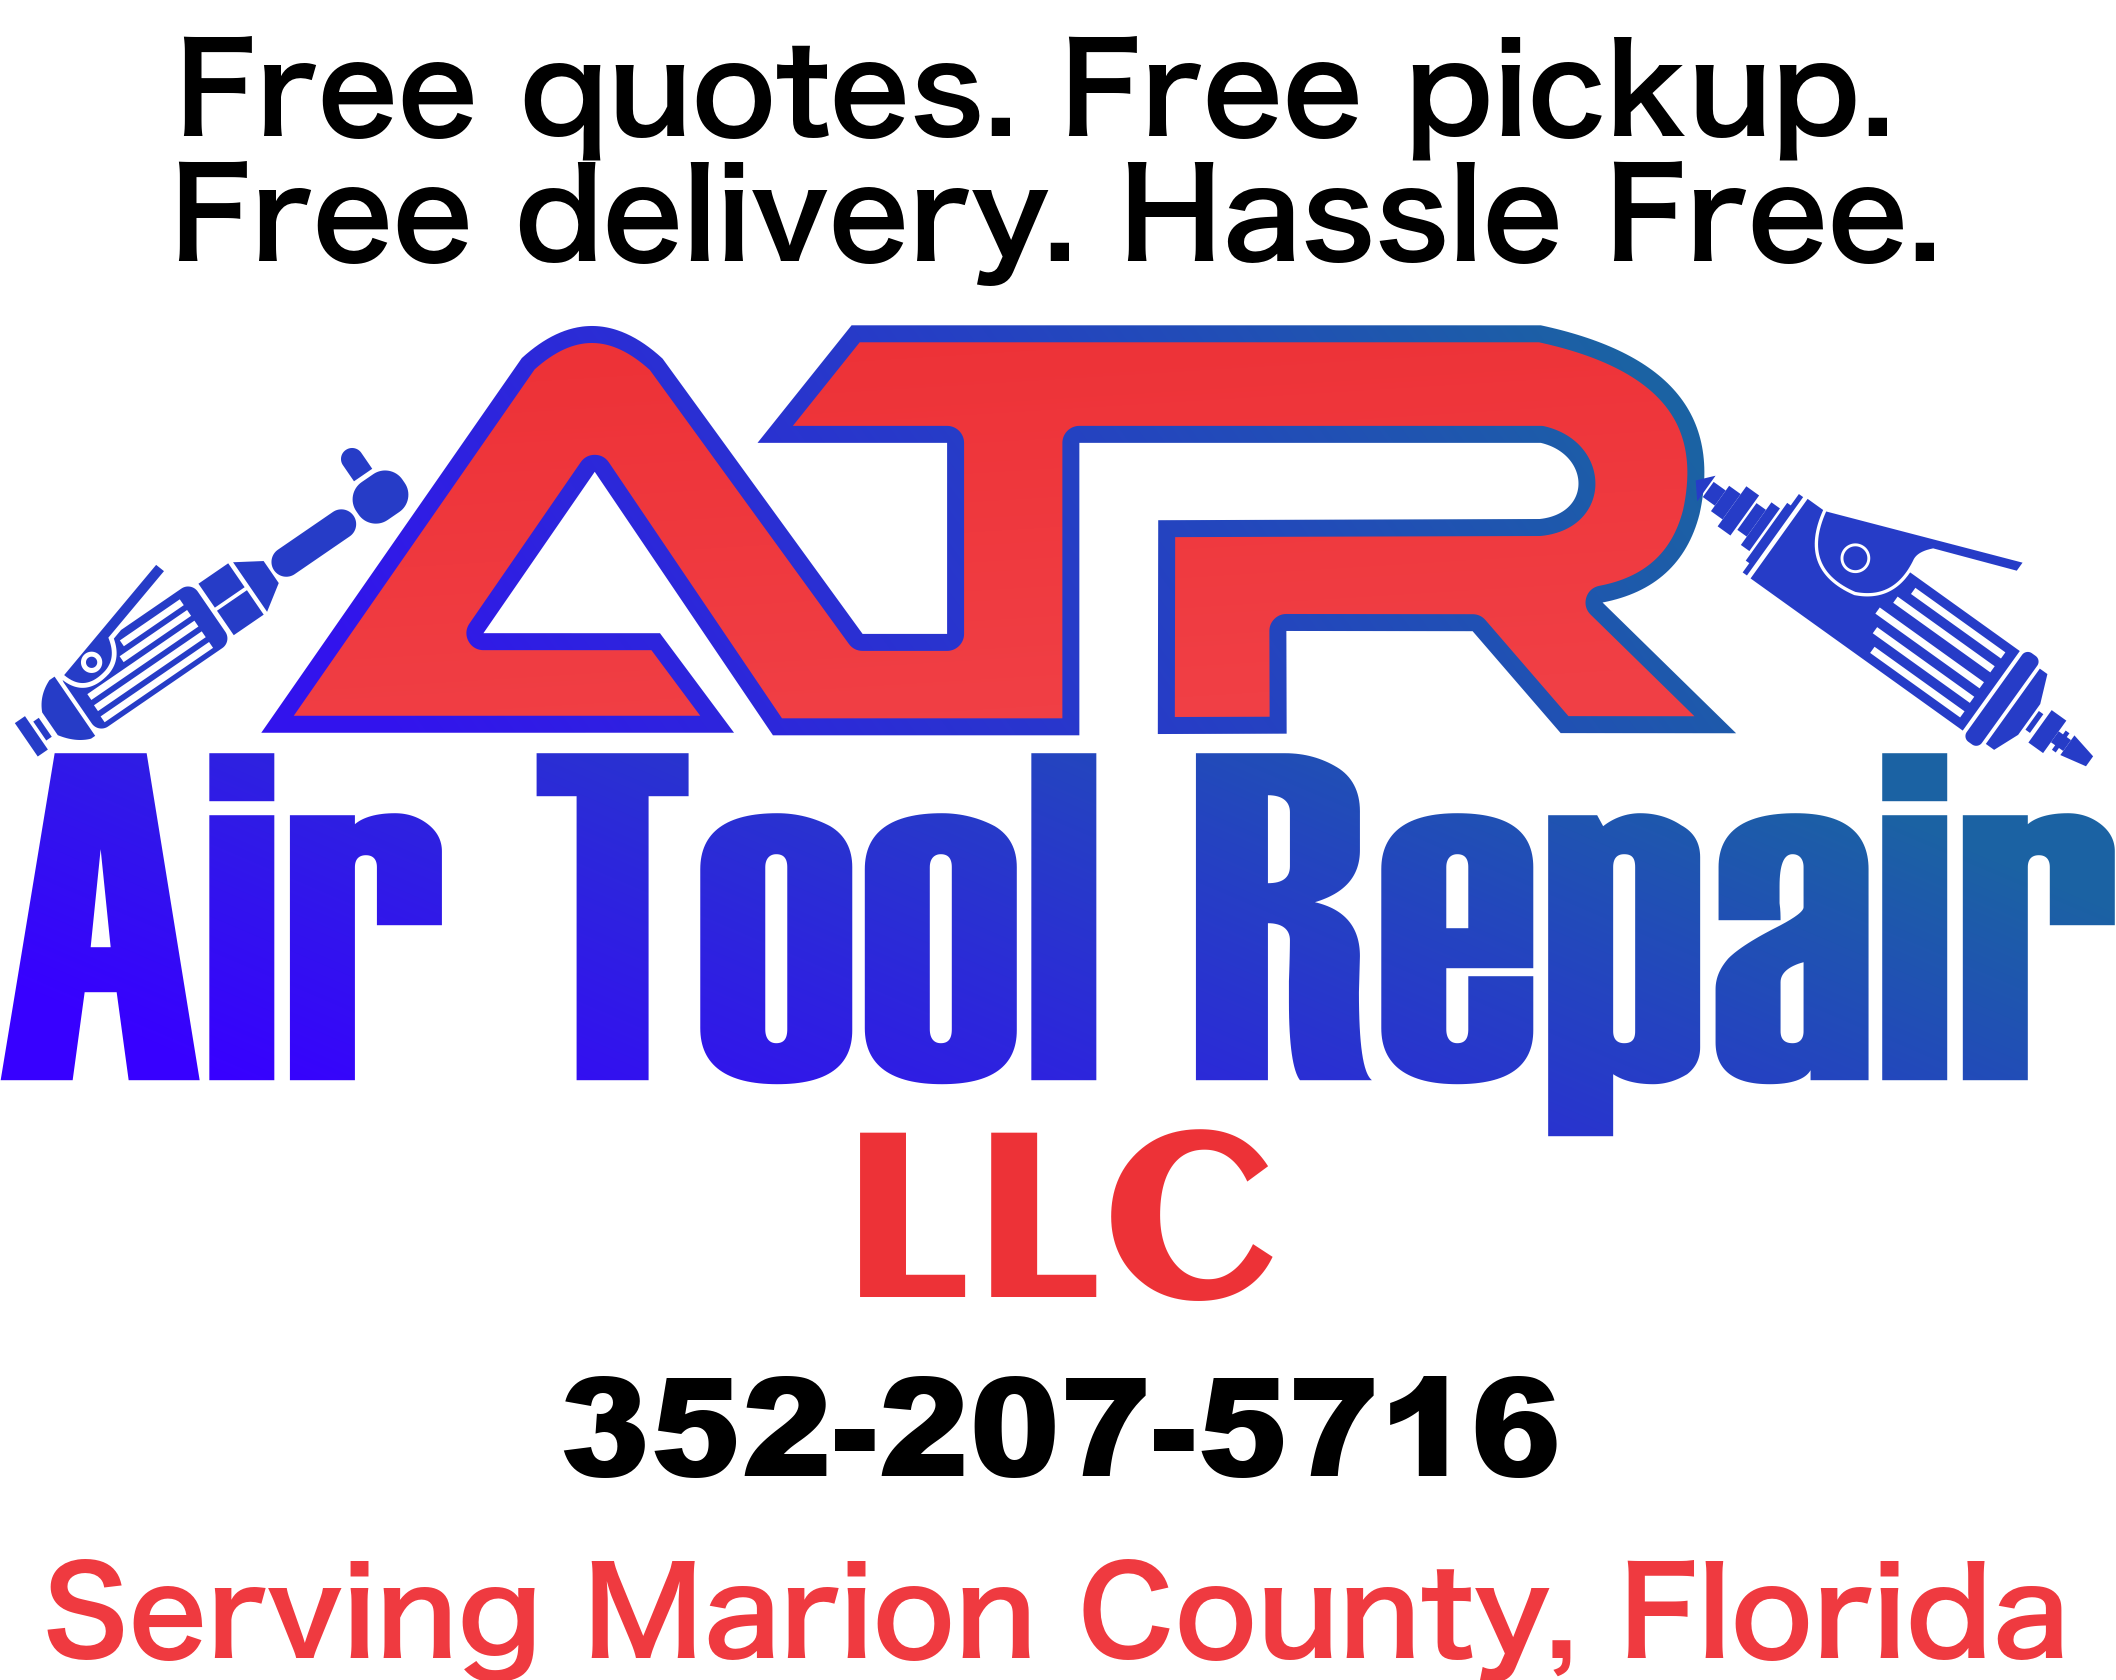
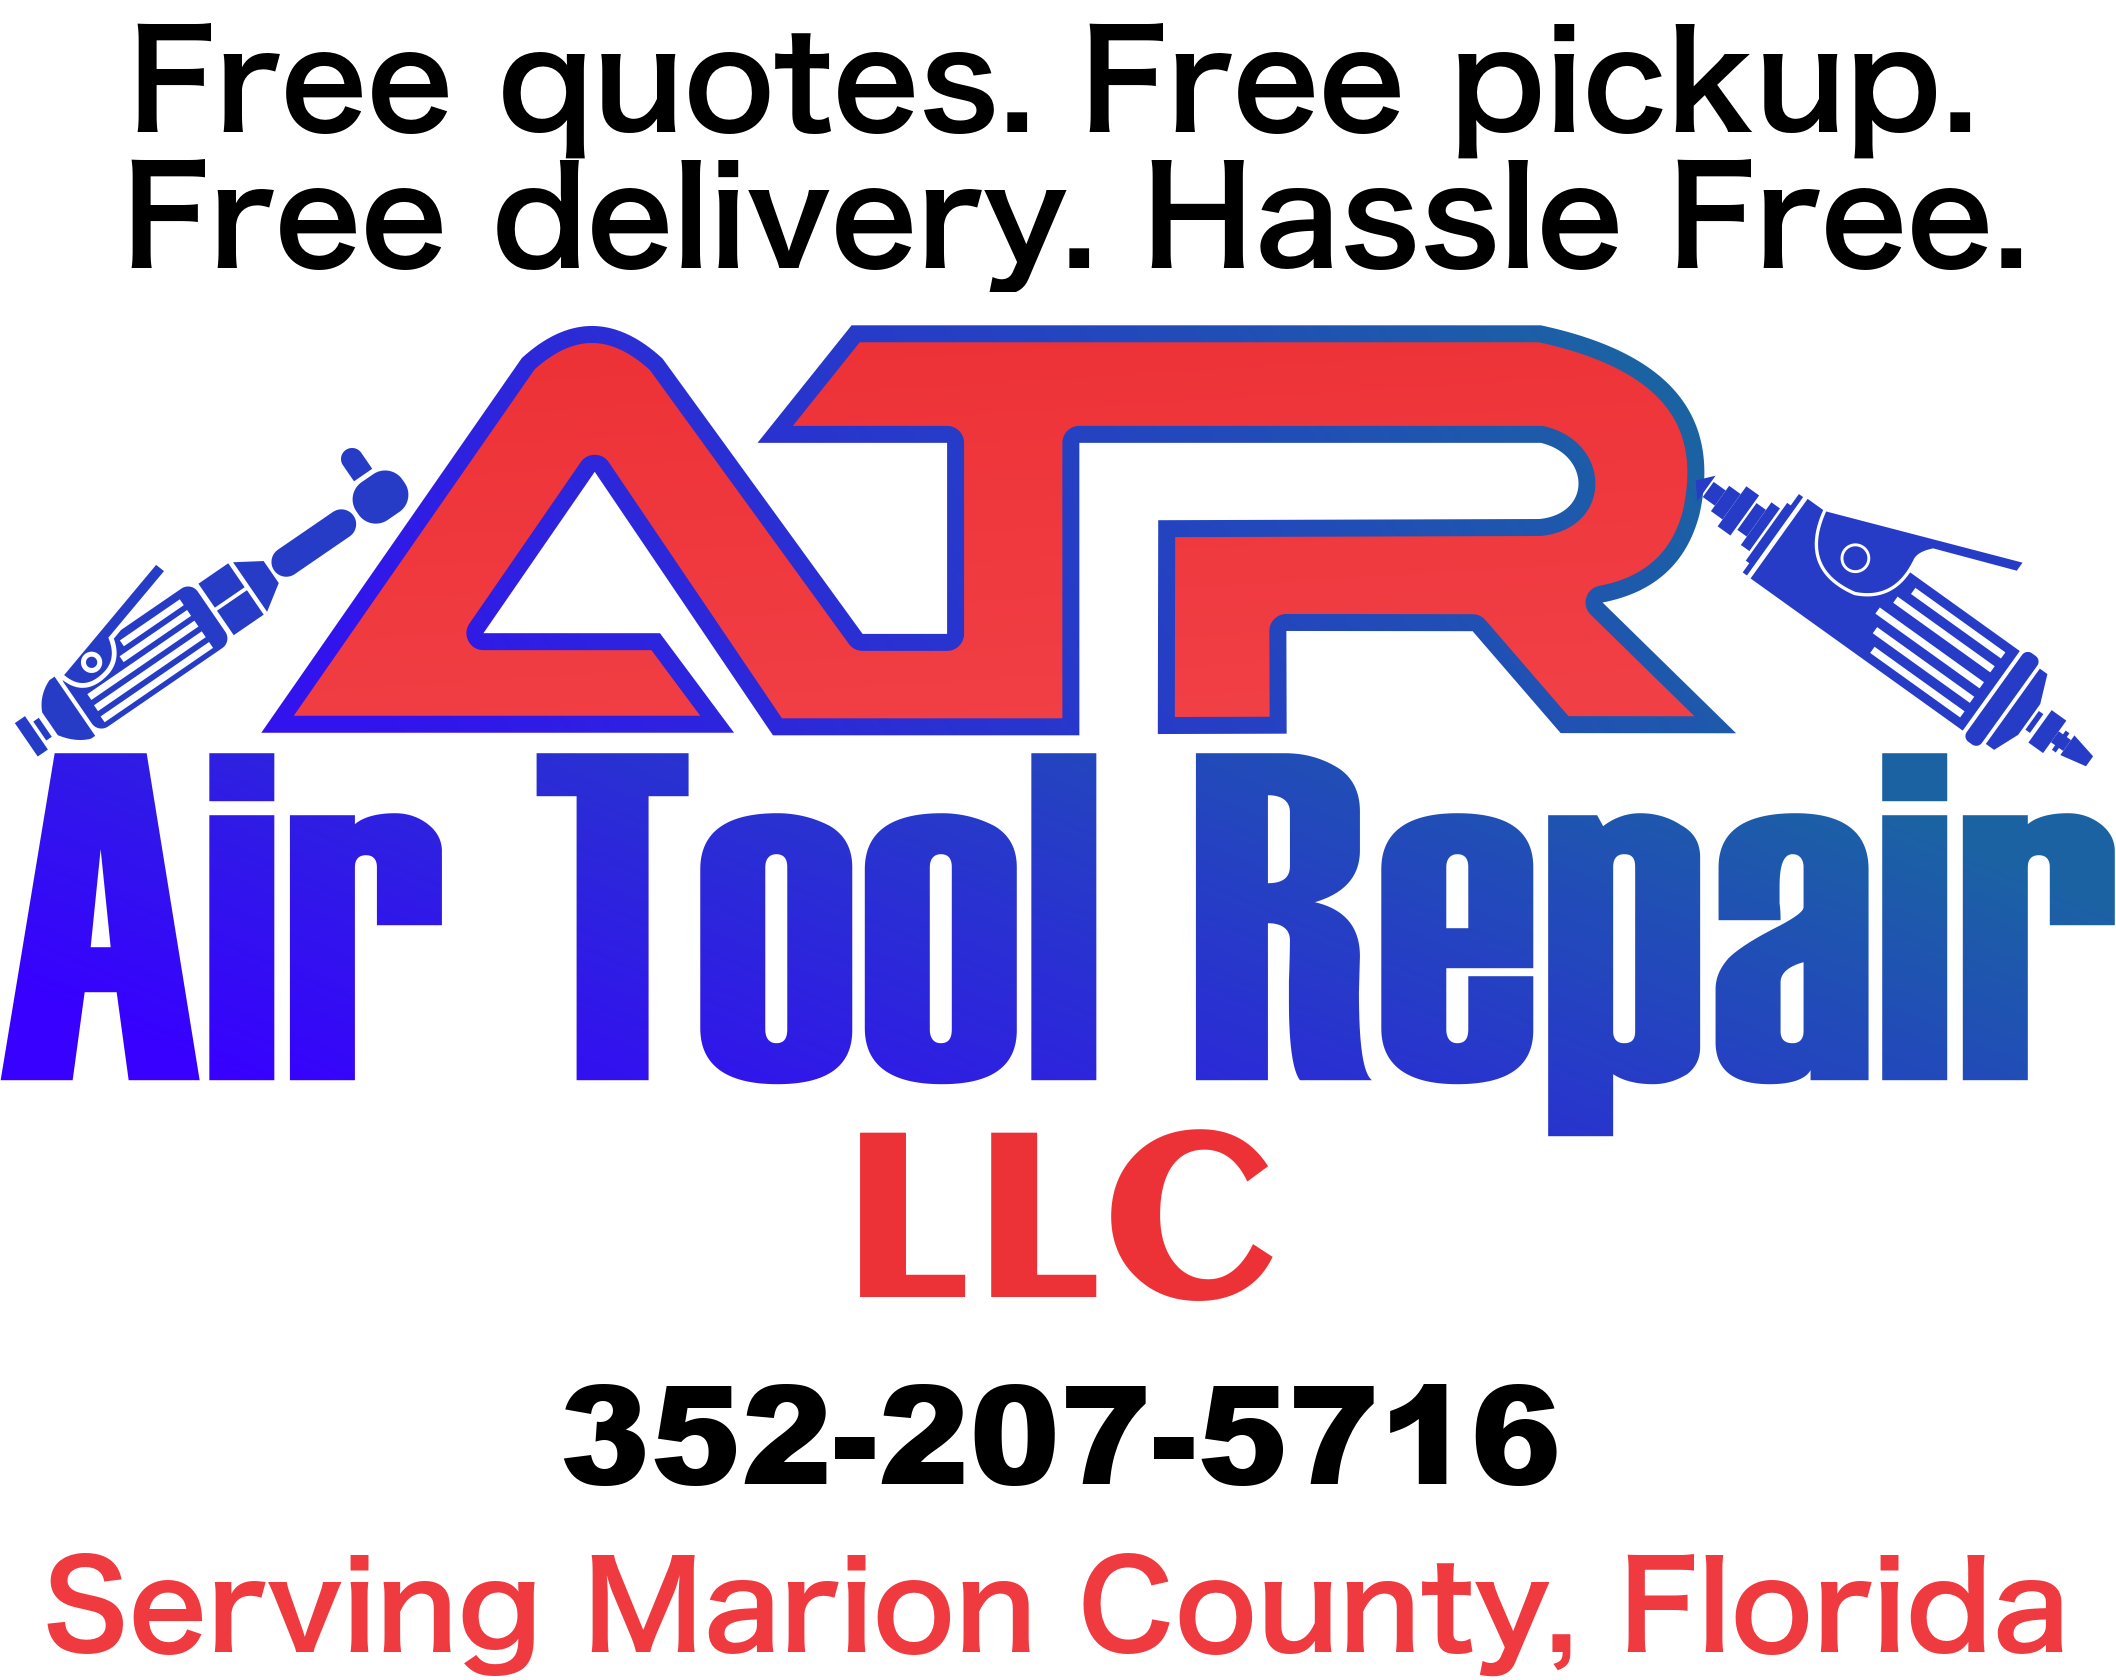
Image adjust and font weights

diff --git a/src/components/about/About.jsx b/src/components/about/About.jsx
@@ -7,7 +7,7 @@ const About = () => {
       <div className="a-wrapper">
         <h2 className="a-title">About Us</h2>
         <p className="a-p">
-          <span className="a-redText">ATR Air Tools Repair LLC&nbsp;</span>
+          <span className="a-redText"><strong>ATR Air Tools Repair LLC&nbsp;</strong></span>
           is a recently formed, family owned & operated business, located in
           Silver Springs Florida. We repair all brands and types of handheld
           pneumatic (Air) tools. We do not have a store front; instead, ATR

diff --git a/src/components/fab/fab.css b/src/components/fab/fab.css
@@ -1,8 +1,8 @@
 .box {
     margin: 0px;
     top: auto;
-    right: 5em;
-    bottom: 3.5em;
+    right: 6em;
+    bottom: 4.5em;
     left: auto;
     position: fixed;
 }

diff --git a/src/components/pickup/pickup.css b/src/components/pickup/pickup.css
@@ -20,6 +20,7 @@
 
 .pu-item {
     font-size: 200%;
+    font-weight: bold;
     text-align: left;
     list-style: none;
     color: #EF3A40;

diff --git a/src/components/warranty/warranty.css b/src/components/warranty/warranty.css
@@ -21,6 +21,7 @@
 .w-p {
   padding: 0 15%;
   font-size: 200%;
+  font-weight: bold;
   margin-bottom: 5%;
   color: #ef3a40;
 }
